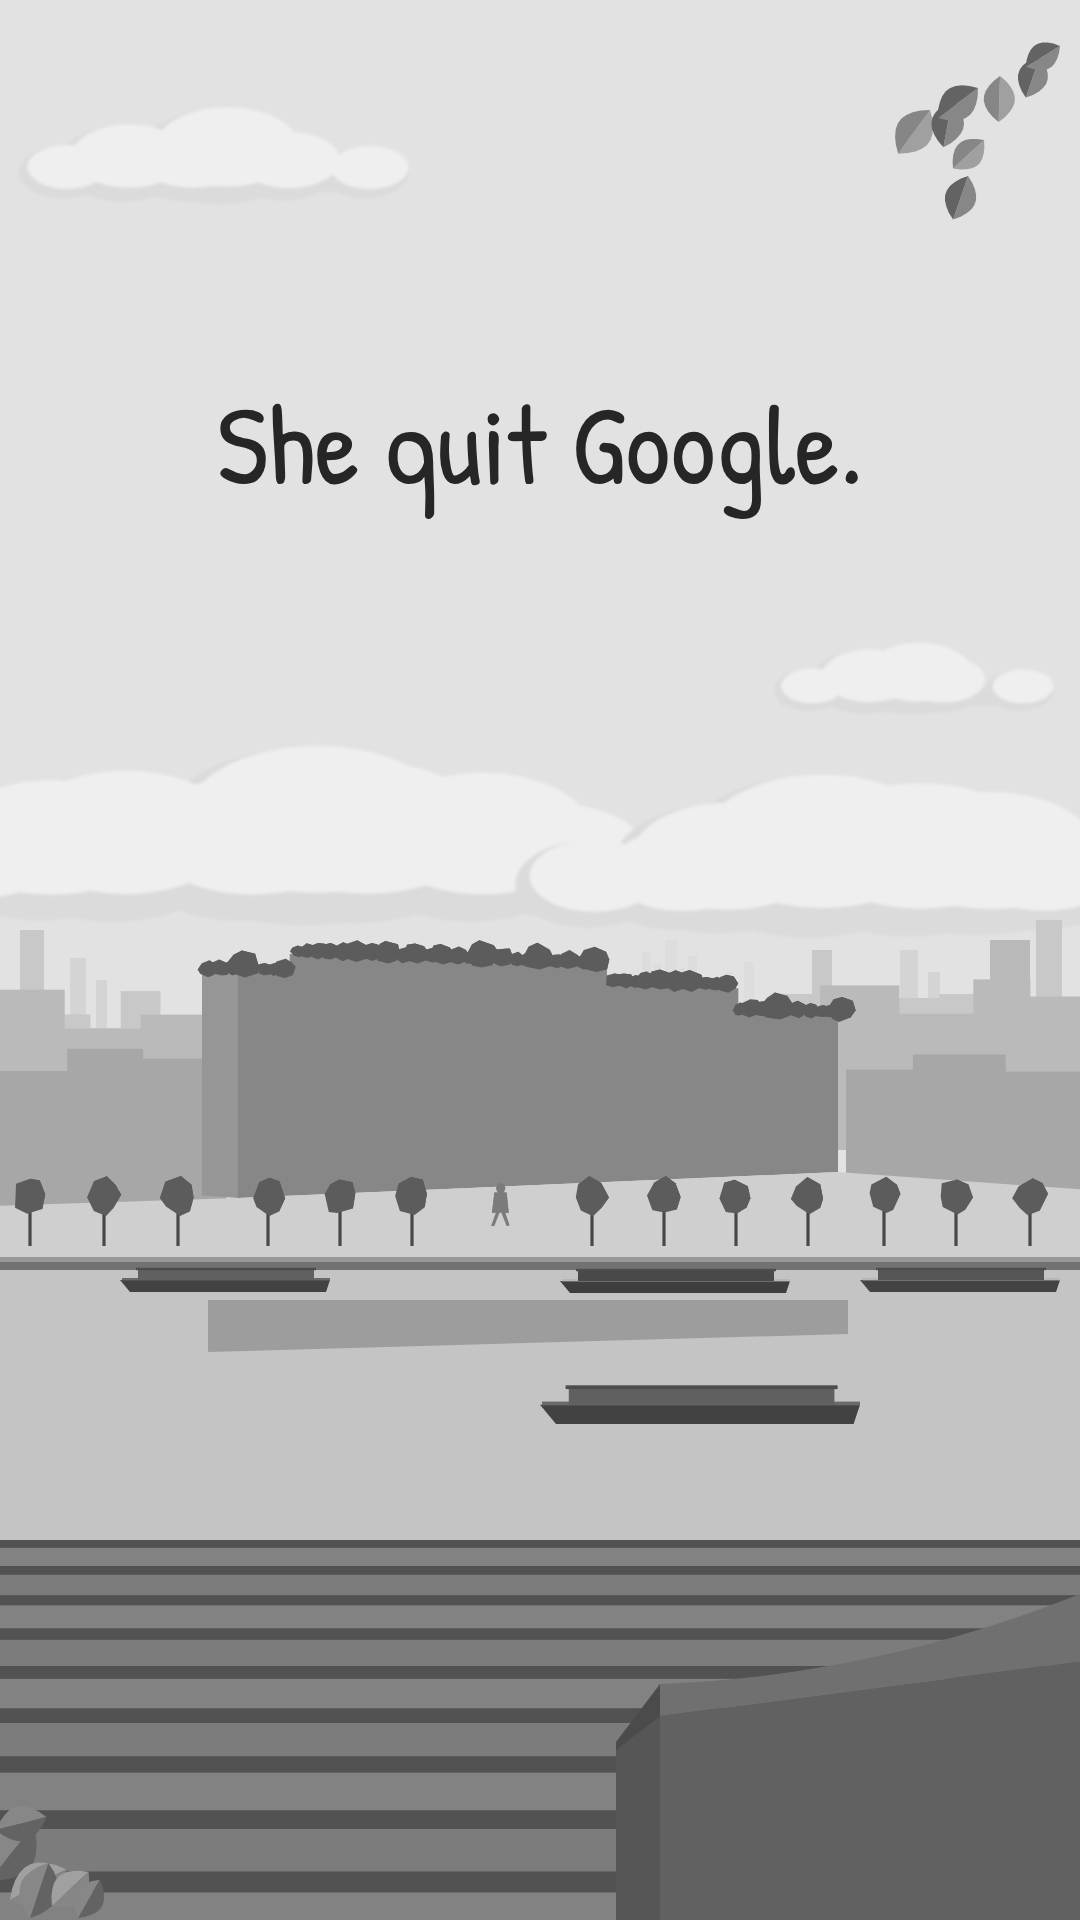
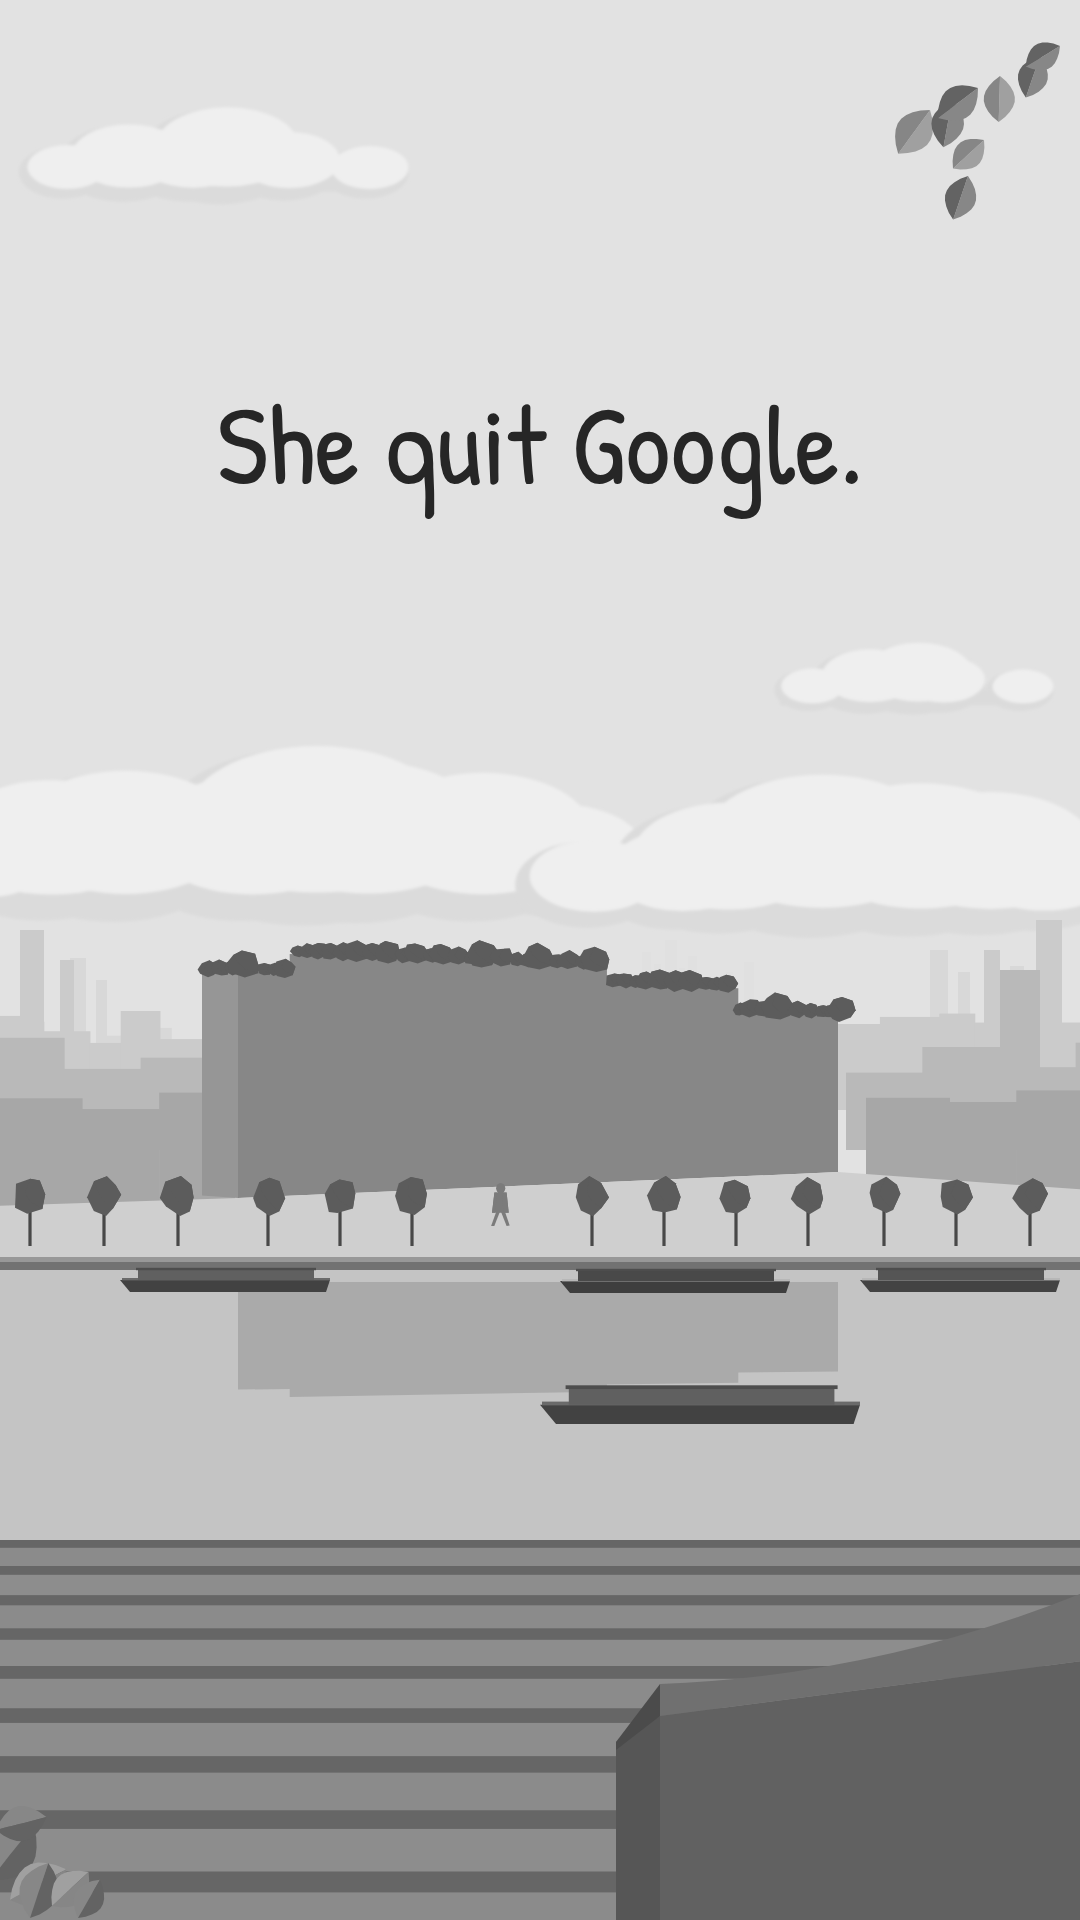
WIP checkpoint (auto, 19:16 UTC): 6 file(s) in the city-poster study
Claude-Session: https://claude.ai/code/session_01YGLGMqbgdpycjemYZL3aoL

diff --git a/video/scripts/look/scene1/scene_v2.py b/video/scripts/look/scene1/scene_v2.py
@@ -32,10 +32,10 @@ C = dict(
     cloud_l='#FAEEDD', cloud_s='#E8D8D3', cloud_hi='#FDF4E8', bird='#8F8290',
     ink='#2C2232',
     # the far layers, farthest (5) to nearest (1)
-    f5='#EDDACB', f5s='#E8D3C8',
-    f4='#E5D0C6', f4s='#DCC6C1',
-    f3='#DBC3BA', f3s='#CDB6B4', f3w='#CFB7B2',
-    f2='#D2B4A6', f2s='#BCA1A2', f2w='#B99D9D', f2l='#DDBFAE',
+    f5='#EDDDD6', f5s='#E7D6D3',
+    f4='#E4D4D5', f4s='#DACACF',
+    f3='#D9C6CA', f3s='#CCB9C1', f3w='#D0BCC2',
+    f2='#CDB3B5', f2s='#B9A1AC', f2w='#BBA2AA', f2l='#D9C0BB',
     f1='#C99E88', f1s='#A98A8B', f1w='#8E7277', f1l='#D8AE93', f1g='#EFC48A',
     crane='#B9A4A6',
     # the hero
@@ -57,13 +57,13 @@ C = dict(
     her='#13898A', her_l='#2BA8A0', her_d='#0C6266', hair='#2A1E26', legs='#2E2B3C', box='#C9945A', box_d='#A67445',
     pip='#9EA4E8', pip_d='#7C82CF', pip_e='#C9B8EA', pip_eye='#2C2232',
     # water
-    water0='#BDD6D2', water1='#A9CBCA', water2='#93BCBD', ripple='#D3E4DE', ripple_d='#86AFB2', refl='#7FA3A8',
+    water0='#BDD6D2', water1='#A9CBCA', water2='#93BCBD', ripple='#D3E4DE', ripple_d='#86AFB2', refl='#8EB0B3',
     refl_l='#C2D5CF', refl_glow='#EBD3A4', refl_dark='#6B8F97', duck='#6A5A56',
     # the near frame (small, subtle)
     coping_l='#C7A68C', coping='#6A5050', path='#8E6E62', path2='#836459', path3='#9A7868', bollard='#3E3440',
     brick='#B65A3C', brick_d='#86423A', brick_l='#C9704B', slate='#6C6E88', slate_d='#464962', slate_l='#8487A0',
     win_glow='#E9A75A', brick_sh='#9A4A36',
-    tread='#6F8A5E', tread2='#68845A', tread_l='#86A06E', riser='#5A5148',
+    tread='#8A8E6C', tread2='#9C8A75', tread_l='#AA9882', riser='#74625A', tread_gl='#989C78',
     leaf_d='#4F6A4E', leaf_l='#748F63', leaf_a='#B9774A', leaf_al='#CF935E', twig='#5A4446',
 )
 
@@ -184,7 +184,7 @@ def build(stage):
                 s.rect(x + w * 0.78, top, w * 0.22, base - top, P[lit])
             if D and wcol and unit:
                 cols = max(1, int((w * 0.62) / (unit * 2.0)))
-                for yy in range(int(top + unit * 1.6), int(base - unit), int(unit * 2.4)):
+                for yy in range(int(top + unit * 1.6), int(base - unit), int(unit * (2.4 if unit > 4 else 4.2))):
                     for k in range(cols):
                         xx = x + w * 0.3 + k * unit * 2.0
                         c = P[glowc] if (glowc and rnd.random() < 0.08) else P[wcol]
@@ -207,18 +207,18 @@ def build(stage):
                    (744, 10, 962), (150, 8, 1018), (962, 9, 1010)], crane=[(704, 958, 30)])
     # L4 (k ~0.75)
     blocks(rnd, -10, 1090, 1090, 1010, 1046, 22, 48, 'f4', 'f4s',
-           towers=[(70, 16, 958), (96, 11, 980), (900, 18, 950), (928, 12, 972), (1010, 14, 966)],
+           towers=[(70, 16, 958), (96, 11, 980), (930, 18, 950), (958, 12, 972), (1010, 14, 966)],
            crane=[(860, 978, 46), (200, 990, 40)])
     # L3 (k ~0.6): a little bigger, tone-on-tone windows
-    blocks(rnd, -10, 1090, 1110, 990, 1036, 30, 64, 'f3', 'f3s', 'f3w', unit=2.2,
-           towers=[(20, 24, 930), (1036, 26, 920), (812, 20, 950)])
+    blocks(rnd, -10, 1090, 1110, 1010, 1050, 30, 64, 'f3', 'f3s', None, unit=0,
+           towers=[(20, 24, 930), (1036, 26, 920), (60, 14, 960), (984, 16, 950)])
     # L2 (k ~0.4): King's Cross mid-rises beside the hero
-    blocks(rnd, -10, 230, 1150, 980, 1030, 44, 80, 'f2', 'f2s', 'f2w', unit=3.0, lit='f2l')
-    blocks(rnd, 820, 1090, 1150, 970, 1026, 44, 80, 'f2', 'f2s', 'f2w', unit=3.0, lit='f2l',
-           towers=[(990, 40, 940)])
+    blocks(rnd, -10, 200, 1150, 1030, 1070, 44, 80, 'f2', 'f2s', 'f2w', unit=2.6, lit='f2l')
+    blocks(rnd, 846, 1090, 1150, 1036, 1076, 44, 80, 'f2', 'f2s', 'f2w', unit=2.6, lit='f2l',
+           towers=[(1000, 40, 970)])
     # L1 (k ~0.25): warm brick blocks at the hero's ends, real windows, a few lit
-    blocks(rnd, -10, 205, 1210, 1040, 1075, 56, 96, 'f1', 'f1s', 'f1w', unit=4.4, lit='f1l', glowc='f1g')
-    blocks(rnd, 846, 1090, 1196, 1046, 1080, 56, 96, 'f1', 'f1s', 'f1w', unit=4.4, lit='f1l', glowc='f1g')
+    blocks(rnd, -10, 190, 1210, 1086, 1112, 56, 96, 'f1', 'f1s', 'f1w', unit=4.4, lit='f1l', glowc='f1g')
+    blocks(rnd, 866, 1090, 1196, 1084, 1110, 56, 96, 'f1', 'f1s', 'f1w', unit=4.4, lit='f1l', glowc='f1g')
 
     # ---- THE HERO: the landscraper in the middle distance, its whole length visible -----------------------------
     EYE = 1070
@@ -423,13 +423,20 @@ def build(stage):
     else:
         gw = s.lingrad([(0, C['water0']), (0.55, C['water1']), (1, C['water2'])], 0, 0, 0, 1)
         s.rect(0, wy0, W, wy1 - wy0, gw)
-    s.poly([(cx0 - 30, wy0 + 30), (xr + 10, wy0 + 30), (xr + 10, wy0 + 64), (cx0 - 30, wy0 + 82)], P['refl'])
+    wl = qedge + 4   # the waterline the hero mirrors in (compressed: a calm, broken reflection)
+    mirror = [(x, wl + (wl - y) * 0.42) for (x, y) in front if y < 1190] 
+    mirror = [(cx0, wl + 16)] + mirror + [(xr, wl + 16)]
+    s.poly(mirror, P['refl'])
+    if not grey:
+        for k in range(7):
+            yy = wl + 30 + k * 13
+            s.rect(cx0 - 10, yy, xr - cx0 + 20, 3 + k * 0.4, P['water1'])
     if D:
         # the hero's reflection: pale fin strokes and warm glints, broken by ripples
         for j in range(0, 49, 2):
             x = fx(j / 48)
             ln = 26 + 10 * math.sin(j * 1.7)
-            s.rect(x, wy0 + 34, 2.2 * sc(x), ln, P['refl_l'] if j % 4 else P['refl_dark'])
+            s.rect(x, wy0 + 30, 2.0 * sc(x), ln * 0.8, P['refl_l'] if j % 4 else P['refl_dark'])
         for j in range(0, 24, 3):
             x = fx((j + 0.5) / 24)
             s.rect(x, wy0 + 46 + (j % 2) * 8, 6, 3, P['refl_glow'])
@@ -496,11 +503,15 @@ def build(stage):
         s.rect(0, y, W, hgt * 0.30, P['riser'])
         s.rect(0, y + hgt * 0.30, W, hgt * 0.70, P['tread'] if k % 2 == 0 else P['tread2'])
         if D:
-            s.rect(0, y + hgt * 0.30, W, 2.2 + hgt * 0.04, P['tread_l'])
+            s.rect(0, y + hgt * 0.30, W, 2.0 + hgt * 0.04, P['tread_l'] if k % 2 else P['tread_gl'])
         y += hgt
         hgt *= 1.13
         k += 1
     if D:
+        rl = random.Random(61)
+        for k in range(22):
+            lx, ly = rl.uniform(20, 640), rl.uniform(wy1 + 30, H - 10)
+            leaf(s, lx, ly, 9 + (ly - wy1) / 40, rl.uniform(0, 6.28), P['leaf_al'], P['leaf_a'])
         for bx in (470, 548):
             s.rect(bx - 7, wy1 - 18, 14, 20, P['bollard'])
             s.ellipse(bx, wy1 - 18, 9, 3.2, P['bollard'])

diff --git a/video/docs/studies/2026-10-28_city_posters/scene_rethink/NOTES.md b/video/docs/studies/2026-10-28_city_posters/scene_rethink/NOTES.md
@@ -101,3 +101,86 @@ back into an open, deep view (well under the frame's width, sky round its top, o
 behind it in many paler layers to something tiny); the quay full of small life; a sky with things in it; the near
 nature small and subtle; no effort on landmarks or an exact camera angle. The general rule: playbook "DEPTH IS AIR AND
 DISTANCE".
+
+## still_v2
+
+**The owner, on still_v1** (2026-10-29): "So there is no sense of depth here like the building is right here and there
+us really no scale depth I'm really suffocating with the view / Some bits are good tho like the style of separation of
+foreground vs background / Also the reference do have more details and density like the the street along the canal
+ours is pretty empty while their have density ... Also the sky is not entirely single color there are more things
+happening / Also dont overindex on adding labdmarks or putting weird camera angles on existing real views thats nit
+as important / The closest leafs and nature on the left are way too big and not as subtle as they need be". The
+playbook's rule is now "DEPTH IS AIR AND DISTANCE".
+
+| File | What |
+|---|---|
+| `stage_v2_values.png` | the new construction as values (big shapes, each in the grey of its colour's L*), checked beside Singapore and Cape Town at 400 px before any colour |
+| `still_v2.png` | the still (also `video/deliverables/tests/poster_scene1_still_v2.png`) |
+| `compare_v2.jpg` | still_v1, still_v2, Singapore, Cape Town at 400 px |
+
+**What changed (the construction, not the paint):**
+- **The camera is pulled far back across a canal basin.** The landscraper sits in the middle distance: its front is
+  56 % of the width (59 % with its shade end; v1 ran off the right edge), its whole length is visible, and its base
+  stands on its quay. It is 13 % of the frame's height at its near end (v1: 32 %). Sky and the cloud bank show round
+  its top and both ends, because the blocks beside it are now lower than it. It is still the crispest thing in the
+  frame (the widest value range, L* 30-90): fins, glass, warm windows and the roof garden.
+- **Open water before it:** the basin (y ~1270-1540), with the sky seen in it and the hero's broken reflection.
+  Ripples get longer and thicker as they near, which adds perspective. A narrowboat crosses with its wake, and three
+  ducks.
+- **The city recedes behind and beside it in five layers**, each paler, smaller and simpler:
+  - warm brick blocks at its ends, with real windows, a few lit;
+  - lilac mid-rises with fewer, smaller windows;
+  - plain pale blocks with slender towers at the sides;
+  - paler towers and cranes;
+  - a ghost strip, where tiny towers peek over the hero's lower terraces: the "something tiny on the horizon".
+  The far layers lean cool (lilac-rose) against the warm sky. No landmark is hunted: St Pancras and the Shard are gone
+  into the generic far layers.
+- **The quay is full** (the calm tier, all small):
+  - 13 awnings with dark shade under each and cafe tables with seated people;
+  - 15 walkers and a cyclist;
+  - a row of 13 trees (Singapore's tree band), 7 lamps, planters and parked bikes;
+  - three moored narrowboats.
+  She, in teal and from behind with the box, leaves the lit lobby on a lit pool of paving, the one clear space on the
+  quay. **Pip** is on the blue narrowboat's roof between the plant pots (x ~684, y ~1262).
+- **The sky has things happening, calmly.** It is the gradient plus:
+  - a paint-like tonal variation (fractal noise at a few % opacity, weaker inside the caption band);
+  - a big soft cloud bank low behind the city, and two small clouds outside the band;
+  - pale far towers rising into it, and five tiny birds.
+  The caption band stays clear (median L* 89).
+- **The near frame is a hint at the edges:**
+  - one small branch at the top right and a few real leaf shapes at the bottom left (lit and shade halves, no outlines);
+  - Granary-like steps down to the water: calm, darker bands that thicken as they near, with fallen leaves;
+  - a smaller brick shed in shade at the bottom right;
+  - one lamp.
+- Source: `video/scripts/look/scene1/scene_v2.py` (`python3 scene_v2.py <out> values detail final`); v1 stays
+  reproducible with `scene.py`.
+
+**Measured** (L* outside the caption band; "edges" = share of pixels with a step > 6 L* to a neighbour):
+| | still_v1 | still_v2 | posters |
+|---|---|---|---|
+| hero: width of frame (front) | ran off the edge | 56 % | Singapore ~55 %, heroes 21-45 % of the height |
+| planes, near to far (+ sky) | ~5 | 9 (steps and shed, water, quay and tree band, hero, 5 city layers) + the cloud bank | 5-7 |
+| open sky down to | y ~640-790 | y ~920-950 (48 %) | 36-53 % |
+| quay / middle band edges | 8 % | 15 % | Singapore's tree band 22 %, Copenhagen's quay 36 % |
+| L* < 65 / 65-80 / < 40 | 43 / 10 / 17 % | 33 / 16 / 7 % | 27-48 / 8-14 / 9-25 % |
+| bottom corners | 49 / 48 | 58 / 41 | 44 / 53 |
+| near-to-air span | 40 | 31 | 27-46 |
+
+The v2 depth ladder (median L*): sky 90; far city layers at the sides 82; brick blocks at the hero's ends 68; hero 68
+(p10-p90 30-90: it owns the contrast); quay 83; water 78; near steps 58; near shed 41. That is a lighter, airier world
+in front of a darker near frame, the separation the owner liked.
+
+**Weak spots I see:**
+- The quay is about twice v1's density but still under the posters' (15 % edges vs 22-36 %): its things are crisp but
+  flat, with little texture inside each shape.
+- The steps are the largest near shape (the bottom ~20 %), calm but one repeated pattern. The posters' near frames are
+  objects (roofs, plants): break the steps with a planter or a tree's base, or shorten them.
+- The hero's reflection still reads as a striped block, not a soft broken mirror.
+- The far side layers carry many small windows and read a little busy at the sides. The tiny towers above the hero's
+  terraces nearly vanish at phone size.
+- The high left cloud is cartoon-round, where the posters' clouds are flatter and more painterly. The sky's paint
+  variation is very faint.
+- She is now 44 px: readable as the teal figure on the lit pool, but small at phone size. In the film, a push-in or a
+  stronger lobby glow would carry her.
+- The darks fell to 7 % (posters 9-25 %): the airier world traded some punch. The darks now live in the hero's glass,
+  the shed, the boats and the people.
